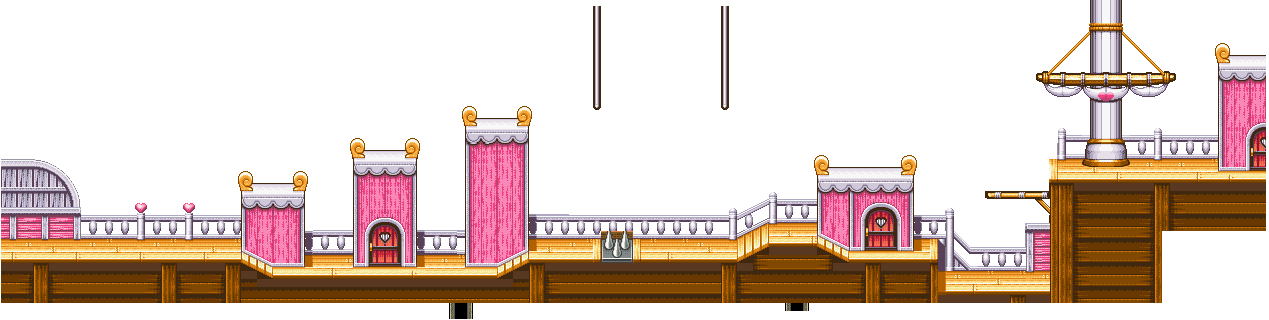
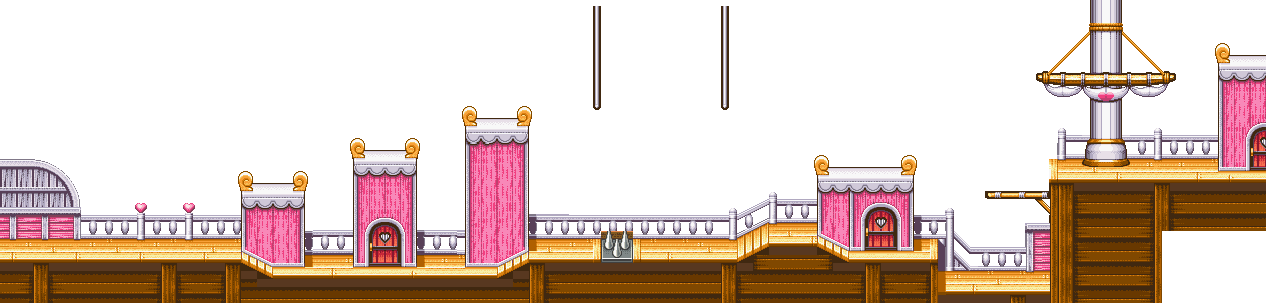
week 11 starter: six steps, sky and parallax typed by students, cropped ship

diff --git a/world.py b/world.py
@@ -1,7 +1,7 @@
-"""Week 11 STARTER — run main.py; fill the seven numbered TODO steps in this file.
+"""Week 11 STARTER — run main.py; fill the numbered STEP TODOs in this file.
 
 Like Week 7's Box Pusher, the World paints everything on its OWN canvas, then
-copies it to the screen. New this week: the canvas is the whole ship (1269 × 320
+copies it to the screen. New this week: the canvas is the whole ship (1266 × 303
 WORLD pixels) and the screen is only 240 × 160. The camera is a screen-sized
 Rect that chooses which part of the world we copy.
 
@@ -21,7 +21,7 @@ HEIGHT = 160
 
 # The lower deck of Alvida's ship (scene 2 of the full game). Teacher-supplied
 # data, traced from the red lines in ship_2_guide.png. All numbers are WORLD pixels.
-SHIP_PICTURE = "ship_2.png"
+SHIP_PICTURE = "ship_2.png"  # Cropped: no see-through strips at its edges.
 SKY_PICTURE = "sky.png"  # 576 × 192, far behind the ship; seen through its sky holes.
 SPAWN = (45, 250)  # (center_x, feet_y)
 EXIT_GATE = (1244, 120, 23, 62)  # (left, top, width, height)
@@ -42,7 +42,8 @@ class World:
     def __init__(self):
         # convert_alpha(): the ship picture has see-through holes where the sky is.
         self.background = pygame.image.load(str(ASSETS / SHIP_PICTURE)).convert_alpha()
-        self.sky = pygame.image.load(str(ASSETS / SKY_PICTURE)).convert()
+        # STEP 5 — TODO: load SKY_PICTURE into self.sky, like the ship picture
+        # above. Use .convert(): the sky has no see-through parts.
         # The world surface is as big as the whole ship picture. Every thing
         # draws here at its world position, like actors on a film set.
         # SRCALPHA keeps the sky holes see-through on the world surface too.
@@ -71,10 +72,9 @@ class World:
         x, feet = SPAWN
         self.player = Luffy(self.surface, x, feet, platforms=self.platforms,
                             floating_platforms=self.floating_platforms)
-        # The camera is the part of the world we can see: exactly screen-sized.
-        # STEP 2 — TODO: the camera starts at world (0, 0), above the ship.
-        # Change its top (the second number) to feet - 120.
-        self.camera = pygame.Rect(0, 0, WIDTH, HEIGHT)
+        # STEP 1 — TODO: replace None with the camera: a screen-sized Rect in
+        # WORLD pixels, at the part of the world the offset shows: (0, feet - 120).
+        self.camera = None  # No camera yet.
         self.done = False
         self.follow_player()
 
@@ -86,30 +86,36 @@ class World:
         self.check_exit()
 
     def follow_player(self):
-        # STEP 3 — TODO: set self.camera.centerx to Luffy's rect.centerx.
-        # STEP 5 — TODO: set self.camera.top so Luffy's feet (rect.bottom)
-        # sit 120 pixels down the screen. Write it ABOVE the Step 4 line.
-        # STEP 4 — TODO: keep the camera inside the ship with clamp_ip(),
+        # STEP 2 — TODO: set self.camera.centerx to Luffy's rect.centerx.
+        # STEP 4 — TODO: set self.camera.top so Luffy's feet (rect.bottom)
+        # sit 120 pixels down the screen. Write it ABOVE the Step 3 line.
+        # STEP 3 — TODO: keep the camera inside the ship with clamp_ip(),
         # clamped to self.surface.get_rect(). Clamp is always LAST.
         pass
 
     def check_exit(self):
-        # STEP 7 — TODO: make gate = pygame.Rect(EXIT_GATE). If Luffy's rect
+        # STEP 6 — TODO: make gate = pygame.Rect(EXIT_GATE). If Luffy's rect
         # collides with it, set self.done = True. Both are in WORLD pixels.
         pass
 
     # --- Drawing: the world on its own surface, then one camera copy ---
 
     def draw(self, screen):
-        self.draw_sky(screen)  # Supplied: the far sky, straight on the screen.
-        # STEP 1 — TODO: paint the world on self.surface, at WORLD positions:
-        # wipe it see-through: self.surface.fill((0, 0, 0, 0)), blit
-        # self.background at (0, 0), then let Luffy draw himself.
-        # STEP 7 — TODO: call self.draw_exit() just before Luffy draws.
+        self.draw_sky(screen)  # Behind everything, straight on the screen.
+        # Paint the world on its own surface, at WORLD positions.
+        self.surface.fill((0, 0, 0, 0))  # Wipe last frame: fully see-through.
+        self.surface.blit(self.background, (0, 0))
+        # STEP 6 — TODO: call self.draw_exit() here, before Luffy draws.
+        self.player.draw()  # Luffy draws himself on the world, as in Week 10.
         if self.debug:
             self.draw_debug()  # Supplied: collision boxes, on the world.
-        # STEP 1 — TODO: copy only the camera's part of the world onto the
-        # screen: blit self.surface at (0, 0), with self.camera as the area.
+        # Show the WHOLE world on the screen, moved up so Luffy's spawn is in
+        # view: his feet (world y SPAWN[1]) land at screen y 120.
+        offset_x = 0
+        offset_y = 120 - SPAWN[1]
+        screen.blit(self.surface, (offset_x, offset_y))
+        # STEP 1 — TODO: replace the three offset lines above with ONE camera
+        # copy: blit self.surface at (0, 0), with self.camera as the area.
         # Supplied: screen things stay put while the ship scrolls behind them.
         if self.show_map:
             self.draw_map(screen)
@@ -120,25 +126,17 @@ class World:
             self.draw_banner(screen)
 
     def draw_sky(self, screen):
-        # Supplied. Parallax, like Week 2's starfield: far things move slower.
-        # The camera moves 5 pixels, the sky slides 1 (minus: opposite way).
-        sky_x = -self.camera.x // 5
-        sky_y = -self.camera.y // 5
-        screen.blit(self.sky, (sky_x, sky_y))
-
-    def draw_coordinates(self, screen):
-        # F1. Luffy's feet in WORLD pixels: where he stands on the ship.
-        world_x = int(self.player.rect.centerx)
-        world_y = int(self.player.rect.bottom)
-        # STEP 6 — TODO: replace both 0s. Screen = world - camera.
-        # Then draw a yellow ring on the SCREEN at (screen_x, screen_y):
-        # pygame.draw.circle(screen, "yellow", (screen_x, screen_y), 4, 1)
-        screen_x = 0
-        screen_y = 0
-        self.draw_numbers(screen, world_x, world_y, screen_x, screen_y)
+        # The ship's see-through holes show this plain sky-blue fill (it also
+        # wipes last frame off the screen).
+        # STEP 5 — TODO: replace the fill with the sky picture: sky_x = 0,
+        # sky_y = 0, then blit self.sky at (sky_x, sky_y). Run it.
+        # Then parallax, like Week 2's starfield: far things move slower.
+        # The camera moves 5 pixels, the sky slides 1 (minus: opposite way):
+        # sky_x = -self.camera.x // 5 and sky_y = -self.camera.y // 5.
+        screen.fill("skyblue")
 
     def draw_exit(self):
-        # STEP 7 — TODO: make gate = pygame.Rect(EXIT_GATE). Draw it as a gold
+        # STEP 6 — TODO: make gate = pygame.Rect(EXIT_GATE). Draw it as a gold
         # frame on the WORLD surface: pygame.draw.rect(self.surface, "gold", gate, 2).
         # Bonus: render "EXIT" with self.font and blit it on self.surface
         # at (gate.centerx - 9, gate.top - 10).
@@ -153,13 +151,16 @@ class World:
         pygame.draw.rect(self.surface, "cyan", self.player.rect, 1)
         pygame.draw.circle(self.surface, "yellow", self.player.rect.midbottom, 2)
 
-    def draw_numbers(self, screen, world_x, world_y, screen_x, screen_y):
-        # F1's three lines of numbers, fixed to the screen.
-        lines = [
-            "Luffy world: (" + str(world_x) + ", " + str(world_y) + ")",
-            "Luffy screen: (" + str(screen_x) + ", " + str(screen_y) + ")",
-            "camera: (" + str(self.camera.x) + ", " + str(self.camera.y) + ")",
-        ]
+    def draw_coordinates(self, screen):
+        # F1, fixed to the screen. Screen position = world position - camera.
+        world_x = int(self.player.rect.centerx)
+        world_y = int(self.player.rect.bottom)
+        lines = ["Luffy world: (" + str(world_x) + ", " + str(world_y) + ")"]
+        if self.camera is not None:
+            screen_x = world_x - self.camera.x
+            screen_y = world_y - self.camera.y
+            lines.append("Luffy screen: (" + str(screen_x) + ", " + str(screen_y) + ")")
+            lines.append("camera: (" + str(self.camera.x) + ", " + str(self.camera.y) + ")")
         top = 4
         if self.show_map:
             top = 58  # Below the shrunken map.
@@ -172,9 +173,10 @@ class World:
         size = (WIDTH, round(self.surface.get_height() * scale))
         pygame.draw.rect(screen, "midnightblue", ((0, 0), size))  # Behind the sky holes.
         screen.blit(pygame.transform.scale(self.surface, size), (0, 0))
-        view = pygame.Rect(self.camera.x * scale, self.camera.y * scale,
-                           self.camera.width * scale, self.camera.height * scale)
-        pygame.draw.rect(screen, "yellow", view, 1)
+        if self.camera is not None:
+            view = pygame.Rect(self.camera.x * scale, self.camera.y * scale,
+                               self.camera.width * scale, self.camera.height * scale)
+            pygame.draw.rect(screen, "yellow", view, 1)
 
     def draw_hud(self, screen):
         strip = pygame.Surface((WIDTH, 12), pygame.SRCALPHA)

diff --git a/assets/CREDITS.md b/assets/CREDITS.md
@@ -11,10 +11,13 @@ ripper/curator credit for this particular supplied Luffy sheet has not been
 verified; do not attribute it to the rippers of other character sheets.
 No ownership or redistribution permission is claimed by this course.
 
-`ship_2.png` is an unchanged copy of
-`part_2/one_piece_game/game/assets/ship_2.png`, the full game's second playable
-scene: **source strip 3** of the original `Alvidas Ship.png`, credited to
-**Cabamanman**. 1269 × 320 pixels, with a transparent sky; picture colors are
+`ship_2.png` is a cropped copy of `part_2/one_piece_game/game/assets/ship_2.png`
+(as committed), the full game's second playable scene: **source strip 3** of the
+original `Alvidas Ship.png`, credited to **Cabamanman**. The 1269 × 320 original
+was cropped to **1266 × 303** (3 see-through columns off the right, 17 nearly
+empty rows off the bottom), its see-through column 0 filled from column 1 so
+floor x-coordinates are unchanged, and its 139 half-transparent pixels made
+solid. The sky stays transparent; picture colors are
 not collision data. The floor, ledge and exit numbers in `world.py` were traced
 from the red and green marks in
 `part_2/one_piece_game/game/assets/ship_2_guide.png`, a teacher reference that
